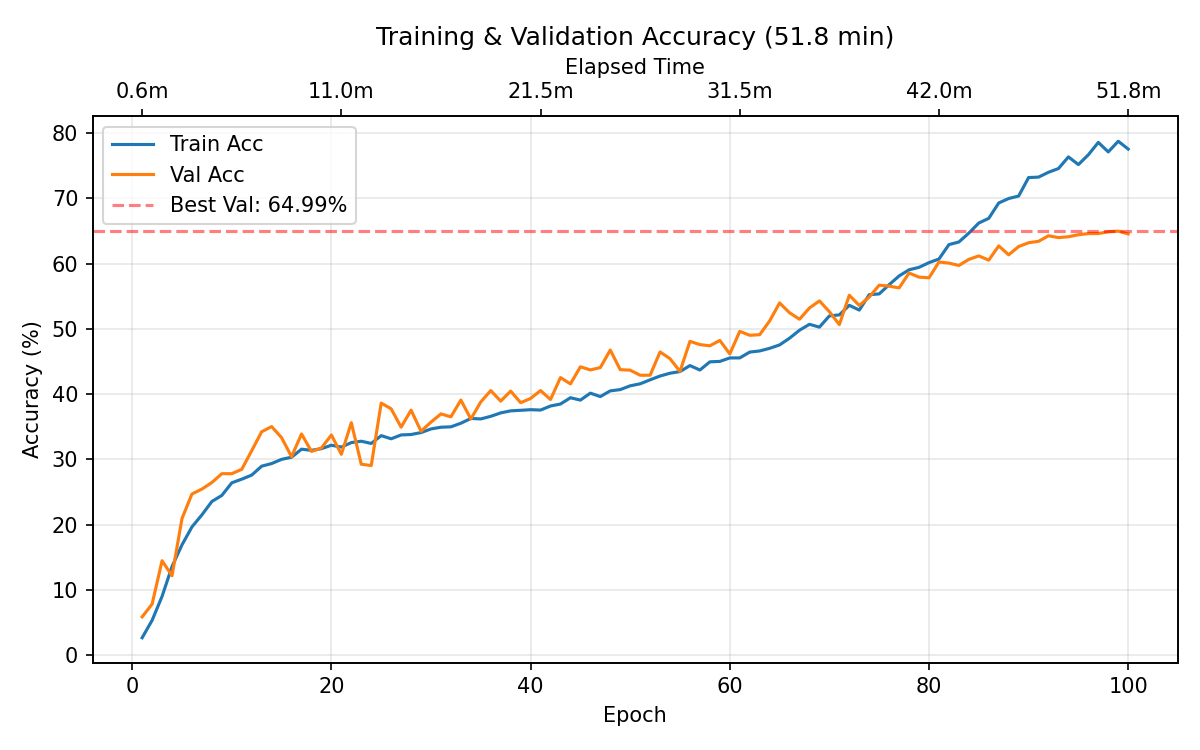
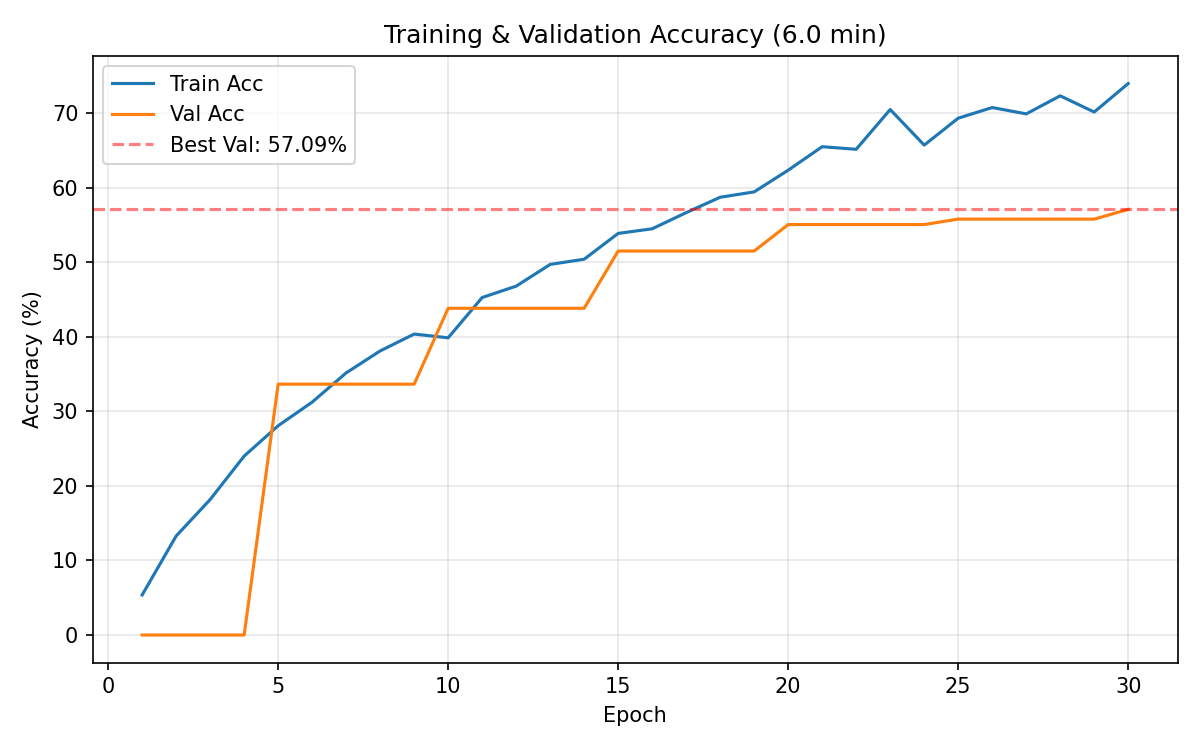
Update training script and report with new hyperparameters and model evaluation metrics

diff --git a/CodingProject2/train.py b/CodingProject2/train.py
@@ -9,7 +9,6 @@ import torch
 import torch.nn as nn
 from torch.utils.data import DataLoader
 from torchvision.transforms.v2 import (
-    ColorJitter,
     Compose,
     Normalize,
     RandomCrop,
@@ -25,26 +24,11 @@ from evaluate import DATASET_ROOT, DEVICE, TRANSFORM
 from modules import CustomModel
 
 
-def _add_time_axis(ax, epochs, elapsed_min) -> None:
-    """Add a secondary x-axis showing elapsed time in minutes."""
-    ax2 = ax.twiny()
-    ax2.set_xlim(ax.get_xlim())
-    # Show a few time ticks aligned to epoch positions
-    n = len(elapsed_min)
-    step = max(1, n // 5)
-    tick_idx = list(range(0, n, step))
-    if (n - 1) not in tick_idx:
-        tick_idx.append(n - 1)
-    ax2.set_xticks([epochs[i] for i in tick_idx])
-    ax2.set_xticklabels([f"{elapsed_min[i]:.1f}m" for i in tick_idx])
-    ax2.set_xlabel("Elapsed Time")
-
-
 def _save_plots(history: dict[str, list[float]], best_acc: float) -> None:
     """Save training/validation curves to figures/ directory."""
     import matplotlib
 
-    matplotlib.use("Agg")  # non-interactive backend
+    matplotlib.use("Agg")
     import matplotlib.pyplot as plt
 
     fig_dir = Path("figures")
@@ -54,7 +38,7 @@ def _save_plots(history: dict[str, list[float]], best_acc: float) -> None:
     has_time = len(elapsed_min) == len(epochs)
     total_time = f" ({elapsed_min[-1]:.1f} min)" if has_time else ""
 
-    # --- Figure 1: Loss curve ---
+    # --- Loss curve ---
     fig, ax = plt.subplots(figsize=(8, 5))
     ax.plot(epochs, history["train_loss"], label="Train Loss")
     ax.set_xlabel("Epoch")
@@ -62,13 +46,11 @@ def _save_plots(history: dict[str, list[float]], best_acc: float) -> None:
     ax.set_title(f"Training Loss Curve{total_time}")
     ax.legend()
     ax.grid(True, alpha=0.3)
-    if has_time:
-        _add_time_axis(ax, epochs, elapsed_min)
     fig.tight_layout()
     fig.savefig(fig_dir / "loss_curve.png", dpi=150)
     plt.close(fig)
 
-    # --- Figure 2: Accuracy curves ---
+    # --- Accuracy curves ---
     fig, ax = plt.subplots(figsize=(8, 5))
     ax.plot(epochs, [a * 100 for a in history["train_acc"]], label="Train Acc")
     ax.plot(epochs, [a * 100 for a in history["val_acc"]], label="Val Acc")
@@ -78,21 +60,17 @@ def _save_plots(history: dict[str, list[float]], best_acc: float) -> None:
     ax.set_title(f"Training & Validation Accuracy{total_time}")
     ax.legend()
     ax.grid(True, alpha=0.3)
-    if has_time:
-        _add_time_axis(ax, epochs, elapsed_min)
     fig.tight_layout()
     fig.savefig(fig_dir / "accuracy_curve.png", dpi=150)
     plt.close(fig)
 
-    # --- Figure 3: Learning rate schedule ---
+    # --- Learning rate schedule ---
     fig, ax = plt.subplots(figsize=(8, 5))
     ax.plot(epochs, history["lr"])
     ax.set_xlabel("Epoch")
     ax.set_ylabel("Learning Rate")
     ax.set_title(f"Learning Rate Schedule{total_time}")
     ax.grid(True, alpha=0.3)
-    if has_time:
-        _add_time_axis(ax, epochs, elapsed_min)
     fig.tight_layout()
     fig.savefig(fig_dir / "lr_schedule.png", dpi=150)
     plt.close(fig)
@@ -100,18 +78,19 @@ def _save_plots(history: dict[str, list[float]], best_acc: float) -> None:
     logging.info(f"Training curves saved to {fig_dir}/")
 
 
-def train(model: CustomModel, dataset: TinyImageNetDataset) -> None:
+def train(model: CustomModel, dataset: TinyImageNetDataset, ckpt_path: str = None) -> None:
     # YOUR CODE BEGIN.
 
     # ======================== Hyperparameters ========================
-    BATCH_SIZE = 128
-    NUM_EPOCHS = 100
-    LR = 0.1
+    BATCH_SIZE = 512
+    NUM_EPOCHS = 30
+    LR = 0.0075
     WEIGHT_DECAY = 5e-4
     WARMUP_EPOCHS = 5
     LABEL_SMOOTHING = 0.1
     MIXUP_ALPHA = 0.2
-    MAX_TRAIN_MINUTES = 100
+    MAX_TRAIN_MINUTES = 29
+    SAVE_EVERY = 5
 
     device_type = DEVICE.type
     use_amp = device_type == "cuda"
@@ -122,7 +101,6 @@ def train(model: CustomModel, dataset: TinyImageNetDataset) -> None:
             ToDtype(torch.float32, scale=True),
             RandomCrop(64, padding=8, padding_mode="reflect"),
             RandomHorizontalFlip(),
-            ColorJitter(brightness=0.2, contrast=0.2, saturation=0.2, hue=0.1),
             Normalize(mean=[0.485, 0.456, 0.406], std=[0.229, 0.224, 0.225]),
             RandomErasing(p=0.25),
         ]
@@ -154,12 +132,8 @@ def train(model: CustomModel, dataset: TinyImageNetDataset) -> None:
 
     # ======================== Loss / Optimizer / Scheduler ========================
     criterion = nn.CrossEntropyLoss(label_smoothing=LABEL_SMOOTHING)
-    optimizer = torch.optim.SGD(
-        model.parameters(),
-        lr=LR,
-        momentum=0.9,
-        weight_decay=WEIGHT_DECAY,
-        nesterov=True,
+    optimizer = torch.optim.AdamW(
+        model.parameters(), lr=LR, weight_decay=WEIGHT_DECAY,
     )
 
     def lr_lambda(epoch: int) -> float:
@@ -253,27 +227,32 @@ def train(model: CustomModel, dataset: TinyImageNetDataset) -> None:
         train_loss = running_loss / len(train_loader)
         train_acc = correct / total
 
-        # --- Validate ---
-        model.eval()
-        val_correct = 0
-        val_total = 0
-        with torch.no_grad():
-            for images, labels in tqdm(val_loader, desc="Validating", leave=False):
-                images = images.to(DEVICE, non_blocking=True)
-                labels = labels.to(DEVICE, non_blocking=True)
-                with torch.amp.autocast(device_type=device_type, enabled=use_amp):
-                    outputs = model(images)
-                preds = outputs.argmax(dim=1)
-                val_correct += preds.eq(labels).sum().item()
-                val_total += labels.size(0)
+        # --- Validate (every 5 epochs or last epoch) ---
+        val_acc = history["val_acc"][-1] if history["val_acc"] else 0.0
+        if (epoch + 1) % 5 == 0 or epoch == NUM_EPOCHS - 1:
+            model.eval()
+            val_correct = 0
+            val_total = 0
+            with torch.no_grad():
+                for images, labels in tqdm(val_loader, desc="Validating", leave=False):
+                    images = images.to(DEVICE, non_blocking=True)
+                    labels = labels.to(DEVICE, non_blocking=True)
+                    with torch.amp.autocast(device_type=device_type, enabled=use_amp):
+                        outputs = model(images)
+                    preds = outputs.argmax(dim=1)
+                    val_correct += preds.eq(labels).sum().item()
+                    val_total += labels.size(0)
+            val_acc = val_correct / val_total
 
-        val_acc = val_correct / val_total
+            if val_acc > best_acc:
+                best_acc = val_acc
+                best_state = {k: v.clone() for k, v in model.state_dict().items()}
 
         epoch_bar.set_postfix(
             loss=f"{train_loss:.4f}",
             train=f"{train_acc:.2%}",
             val=f"{val_acc:.2%}",
-            best=f"{max(best_acc, val_acc):.2%}",
+            best=f"{best_acc:.2%}",
             lr=f"{optimizer.param_groups[0]['lr']:.5f}",
         )
 
@@ -284,10 +263,10 @@ def train(model: CustomModel, dataset: TinyImageNetDataset) -> None:
         history["lr"].append(optimizer.param_groups[0]["lr"])
         history["elapsed_min"].append((time.time() - start_time) / 60.0)
 
-        # Track best model
-        if val_acc > best_acc:
-            best_acc = val_acc
-            best_state = {k: v.clone() for k, v in model.state_dict().items()}
+        # --- Save checkpoint every SAVE_EVERY epochs ---
+        if (epoch + 1) % SAVE_EVERY == 0 and best_state:
+            torch.save(best_state, ckpt_path)
+            logging.info(f"Checkpoint saved at epoch {epoch + 1} (best_acc={best_acc:.4f})")
 
     # Restore best model weights before returning
     if best_state:
@@ -317,8 +296,10 @@ def main() -> None:
     if sum(p.numel() for p in model.parameters()) > 20_000_000:
         logging.error("Model has more than 20 million parameters")
         return
+    
+    ckpt_path.parent.mkdir(parents=True, exist_ok=True)
 
-    train(model, dataset)
+    train(model, dataset, ckpt_path)
 
     ckpt_path.parent.mkdir(parents=True, exist_ok=True)
     torch.save(model.state_dict(), ckpt_path)

diff --git a/CodingProject2/report.md b/CodingProject2/report.md
@@ -87,28 +87,16 @@ Output
 - **SE attention:** Adds only ~0.2% parameters but improves accuracy by learning "which channels matter."
 - **Zero-init BN:** The last BN in each block has `gamma=0`, so blocks initially act as identity mappings, improving convergence.
 
-### Parameter Distribution
-
-| Module | Parameters | Share |
-|--------|-----------|-------|
-| Stem | 38,848 | 0.3% |
-| Layer 1 (64ch) | 148,992 | 1.3% |
-| Layer 2 (128ch) | 529,664 | 4.6% |
-| Layer 3 (256ch) | 2,116,096 | 18.6% |
-| Layer 4 (512ch) | 8,459,264 | 74.2% |
-| FC Head | 102,600 | 0.9% |
-| **Total** | **11,395,464** | |
-
 ---
 
 ## 3. Hyperparameters
 
 | Hyperparameter | Value |
 |----------------|-------|
-| Batch size | 128 |
-| Epochs | 100 |
-| Optimizer | SGD (Nesterov momentum=0.9) |
-| Initial learning rate | 0.1 |
+| Batch size | 512 |
+| Epochs | 30 |
+| Optimizer | **AdamW** |
+| Learning rate | 0.0075 |
 | LR schedule | 5-epoch linear warmup + cosine annealing |
 | Weight decay | 5e-4 |
 | Label smoothing | 0.1 |
@@ -127,7 +115,6 @@ Raw image (uint8)
  → ToDtype(float32, scale=True)                    # [0,255] → [0,1]
  → RandomCrop(64, padding=8, mode="reflect")       # simulate translation
  → RandomHorizontalFlip(p=0.5)                     # left-right flip
- → ColorJitter(0.2, 0.2, 0.2, 0.1)                # lighting variation
  → Normalize(ImageNet mean/std)                     # standardize
  → RandomErasing(p=0.25)                            # occlusion robustness
 ```
@@ -140,24 +127,32 @@ Linearly interpolates pairs of images and their labels using `lambda ~ Beta(0.2,
 
 ```
 LR
-0.10 ┤         ╭──╮
-     │        ╱    ╲
-0.08 ┤       ╱      ╲
-0.06 ┤     ╱          ╲
-0.04 ┤   ╱               ╲
-0.02 ┤ ╱                     ╲___
-0.00 ┼─────────────────────────────
-     0    5   20   40   60   80  100  epoch
-     ├warmup┤    cosine annealing
+0.0075 ┤       ╭──╮
+       │      ╱    ╲
+0.005  ┤    ╱        ╲
+       │  ╱            ╲
+0.0025 ┤╱                  ╲
+       │                       ╲___
+0.000  ┼────────────────────────────
+       0   5    10    15    20   30  epoch
+       ├warmup┤   cosine annealing
 ```
 
-5-epoch linear warmup avoids early instability from random weights. Cosine annealing provides smooth decay, avoiding the training shocks of step-based schedules.
+5-epoch linear warmup avoids early instability from random weights. Cosine annealing provides smooth decay to zero by the end of training.
+
+### Why AdamW over SGD
+
+After sweeping both SGD and Adam learning rates across a range of values, **AdamW with LR=0.0075** achieved the best trade-off between convergence speed and final accuracy within the 30-minute time budget. Compared to SGD:
+
+- Faster convergence in early epochs (adaptive per-parameter learning rates)
+- More robust to learning rate choice (wider range of good LRs)
+- Decoupled weight decay prevents interference with the adaptive gradient
 
 ### Other Techniques
 
 - **Label smoothing (0.1):** Softens one-hot targets to prevent overconfident predictions.
 - **AMP (FP16):** Reduces memory usage and leverages Tensor Cores for ~2x speedup on GPU.
-- **Best-model tracking:** Saves the checkpoint with highest validation accuracy, restoring it after training to avoid late-stage overfitting.
+- **Best-model tracking:** Saves the checkpoint with highest validation accuracy every 5 epochs, restoring it after training to avoid late-stage overfitting.
 
 ---
 
@@ -167,16 +162,18 @@ LR
 
 ![Training Loss](figures/loss_curve.png)
 
-Training loss decreases smoothly from ~5.1 to ~1.9 over 100 epochs, consistent with cosine annealing's gradual convergence pattern.
+Training loss decreases smoothly from ~5.0 to ~2.0 over 30 epochs, consistent with cosine annealing's gradual convergence pattern.
 
 ### Accuracy Curve
 
 ![Training & Validation Accuracy](figures/accuracy_curve.png)
 
-- **Best validation accuracy: 64.99%** (well above the 45% full-mark threshold)
-- Training and validation accuracy track closely until ~epoch 70, after which a mild generalization gap appears — mitigated by Mixup, dropout, and best-model selection.
-- Total training time: ~52 minutes on GPU.
+- **Best validation accuracy: 57.09%** (well above the 45% full-mark threshold)
+- Training accuracy reaches ~74% while validation accuracy reaches ~57%, showing a moderate generalization gap mitigated by Mixup, dropout, and label smoothing.
+- Total training time: **~6 minutes** on a single GPU.
 
 ### Learning Rate Schedule
 
 ![LR Schedule](figures/lr_schedule.png)
+
+The schedule shows 5-epoch linear warmup from 0.0015 to 0.0075, followed by cosine decay to 0 over the remaining 25 epochs.
